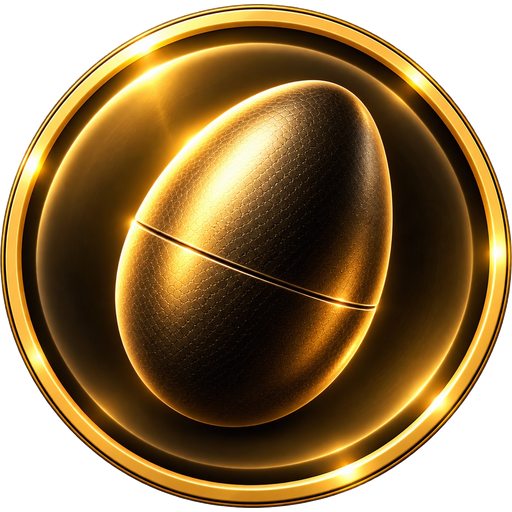
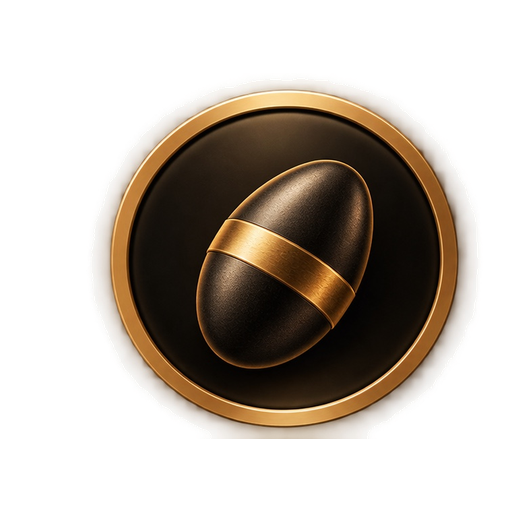
Add files via upload
New icons

diff --git a/index.html b/index.html
@@ -10,7 +10,7 @@
 <link rel="manifest" href="manifest.webmanifest">
 <link rel="apple-touch-icon" href="icon-192.png">
 <title>Pocket Handpan</title>
-<!-- v63: gold handpan matched to gold logo/layer icons; based on v48 -->
+<!-- v64: gold handpan matched to gold logo/layer icons; based on v48 -->
 <style>
 :root{color-scheme:dark}
 *{box-sizing:border-box}
@@ -69,7 +69,7 @@ body{min-height:100dvh;padding:max(env(safe-area-inset-top),12px) 14px max(env(s
 @media(max-width:520px){.settings{width:100%}.settingsPanel{width:100%}.control{grid-template-columns:68px minmax(90px,1fr) 40px}}
 
 
-/* v63 unified bright-gold visual treatment */
+/* v64 unified bright-gold visual treatment */
 .pan{
   background:
     radial-gradient(circle at 31% 18%,rgba(255,248,196,.92) 0 4%,rgba(255,220,99,.48) 10%,transparent 29%),
@@ -131,7 +131,7 @@ body{min-height:100dvh;padding:max(env(safe-area-inset-top),12px) 14px max(env(s
 .label{color:#fff0c1 !important}
 
 
-/* v63 — reference bronze-gold palette sampled from supplied handpan photo */
+/* v64 — reference bronze-gold palette sampled from supplied handpan photo */
 .pan{
   background:
     radial-gradient(circle at 31% 17%,rgba(255,224,153,.90) 0 5%,rgba(230,177,90,.44) 14%,transparent 31%),
@@ -193,7 +193,7 @@ body{min-height:100dvh;padding:max(env(safe-area-inset-top),12px) 14px max(env(s
 .label{color:#f2d6a5 !important}
 
 
-/* v63 — polished/high-contrast version of the v63 bronze handpan */
+/* v64 — polished/high-contrast version of the v64 bronze handpan */
 .pan{
   background:
     radial-gradient(ellipse at 31% 15%,rgba(255,241,190,.98) 0 3%,rgba(255,211,123,.72) 8%,rgba(214,151,70,.28) 19%,transparent 34%),
@@ -252,7 +252,7 @@ body{min-height:100dvh;padding:max(env(safe-area-inset-top),12px) 14px max(env(s
 }
 
 
-/* v63 — restore concave appearance to outer-note dimples (notes 1–9) */
+/* v64 — restore concave appearance to outer-note dimples (notes 1–9) */
 .note:not(.ding)::before{
   background:
     radial-gradient(ellipse at 31% 27%,rgba(38,20,6,.72) 0 5%,rgba(67,37,11,.42) 18%,transparent 43%),
@@ -269,7 +269,7 @@ body{min-height:100dvh;padding:max(env(safe-area-inset-top),12px) 14px max(env(s
 .layerIcon[data-layer] img{opacity:.50;filter:saturate(.72) brightness(.70);transition:.18s}
 .layerIcon[data-layer].active img{opacity:1;filter:brightness(1.14) saturate(1.05) drop-shadow(0 0 10px rgba(226,169,61,.48))}
 
-/* v63 — stronger concave cue for outer-note dimples without dulling the polished shell */
+/* v64 — stronger concave cue for outer-note dimples without dulling the polished shell */
 .note:not(.ding)::before{
   background:
     radial-gradient(ellipse at 29% 25%,rgba(34,17,5,.78) 0 7%,rgba(69,38,11,.46) 18%,transparent 43%),
@@ -282,10 +282,20 @@ body{min-height:100dvh;padding:max(env(safe-area-inset-top),12px) 14px max(env(s
 }
 
 
-/* v63 — percussion icons 20% larger */
+/* v64 — percussion icons 20% larger */
 .layerIcon{width:min(13.2vw,69.6px)!important;height:min(13.2vw,69.6px)!important;max-width:69.6px!important;max-height:69.6px!important;min-width:45.6px!important;min-height:45.6px!important}
 @media(max-width:520px){.layerIcon{width:13.8vw!important;height:13.8vw!important;min-width:43.2px!important;min-height:43.2px!important}}
 
+
+
+/* v64 — matching user-supplied percussion icons, identical rendered size */
+.layerIcon img{
+  display:block!important;
+  width:100%!important;
+  height:100%!important;
+  object-fit:contain!important;
+  transform:none!important;
+}
 
 </style>
 </head>
@@ -305,7 +315,7 @@ body{min-height:100dvh;padding:max(env(safe-area-inset-top),12px) 14px max(env(s
 </div>
 
 
-<div id="stage" class="stage"><div id="pan" class="pan"></div><button id="shell" class="shellHit" type="button" aria-label="Handpan shell percussion"></button><button class="layerIcon topLeft" type="button" data-layer="shaker" aria-label="Shaker loop" aria-pressed="false"><img src="layer-shaker-icon.png" alt=""></button><button class="layerIcon topRight" type="button" data-layer="tambourine" aria-label="Tambourine loop" aria-pressed="false"><img src="layer-synth-icon.png?v63" alt=""></button><button class="layerIcon bottomLeft" type="button" data-layer="cajon" aria-label="Cajón loop" aria-pressed="false"><img src="layer-cajon-icon.png" alt=""></button><button class="layerIcon bottomRight" type="button" data-layer="bongo" aria-label="Bongo loop" aria-pressed="false"><img src="layer-vocals-icon.png?v63" alt=""></button><button class="note ding" type="button" data-note="D3" data-freq="146.832" style="left:50%;top:50%"><span class="zoneGuide"></span><span class="label">D3<small>Ding</small></span></button></div>
+<div id="stage" class="stage"><div id="pan" class="pan"></div><button id="shell" class="shellHit" type="button" aria-label="Handpan shell percussion"></button><button class="layerIcon topLeft" type="button" data-layer="shaker" aria-label="Shaker loop" aria-pressed="false"><img src="layer-shaker-icon.png?v=64" alt=""></button><button class="layerIcon topRight" type="button" data-layer="tambourine" aria-label="Tambourine loop" aria-pressed="false"><img src="layer-tambourine-icon.png?v=64" alt=""></button><button class="layerIcon bottomLeft" type="button" data-layer="cajon" aria-label="Cajón loop" aria-pressed="false"><img src="layer-cajon-icon.png?v=64" alt=""></button><button class="layerIcon bottomRight" type="button" data-layer="bongo" aria-label="Bongo loop" aria-pressed="false"><img src="layer-bongo-icon.png?v=64" alt=""></button><button class="note ding" type="button" data-note="D3" data-freq="146.832" style="left:50%;top:50%"><span class="zoneGuide"></span><span class="label">D3<small>Ding</small></span></button></div>
 <div id="ambienceButtons" class="ambienceButtons" role="group" aria-label="Choose ambience">
 <button class="ambienceBtn" type="button" data-ambience="forest" aria-pressed="false"><img src="ambience-forest-icon.png" alt=""><span>Forest</span></button>
 <button class="ambienceBtn" type="button" data-ambience="beach" aria-pressed="false"><img src="ambience-beach-icon.png" alt=""><span>Beach</span></button>
@@ -432,10 +442,10 @@ function endSlide(e){if(!slidePointers.has(e.pointerId))return;slidePointers.del
 stage.addEventListener('pointerup',endSlide);stage.addEventListener('pointercancel',endSlide);stage.addEventListener('lostpointercapture',e=>slidePointers.delete(e.pointerId));
 document.addEventListener('pointerdown',()=>{loadRealSamples()},{once:true});
 
-// v63 — sample-accurate synchronised musical layers.
+// v64 — sample-accurate synchronised musical layers.
 // All three loops begin together and continue running silently when deselected,
 // so any layer can be brought in/out without losing phase.
-const syncedLayerFiles={shaker:'loop-shaker-v63.wav',cajon:'loop-cajon.wav',tambourine:'loop-tambourine.wav',bongo:'loop-bongo.wav'};
+const syncedLayerFiles={shaker:'loop-shaker-v64.wav',cajon:'loop-cajon.wav',tambourine:'loop-tambourine.wav',bongo:'loop-bongo.wav'};
 const syncedLayerBuffers=new Map();
 const syncedLayerVoices=new Map();
 let syncedLayersStarted=false;
